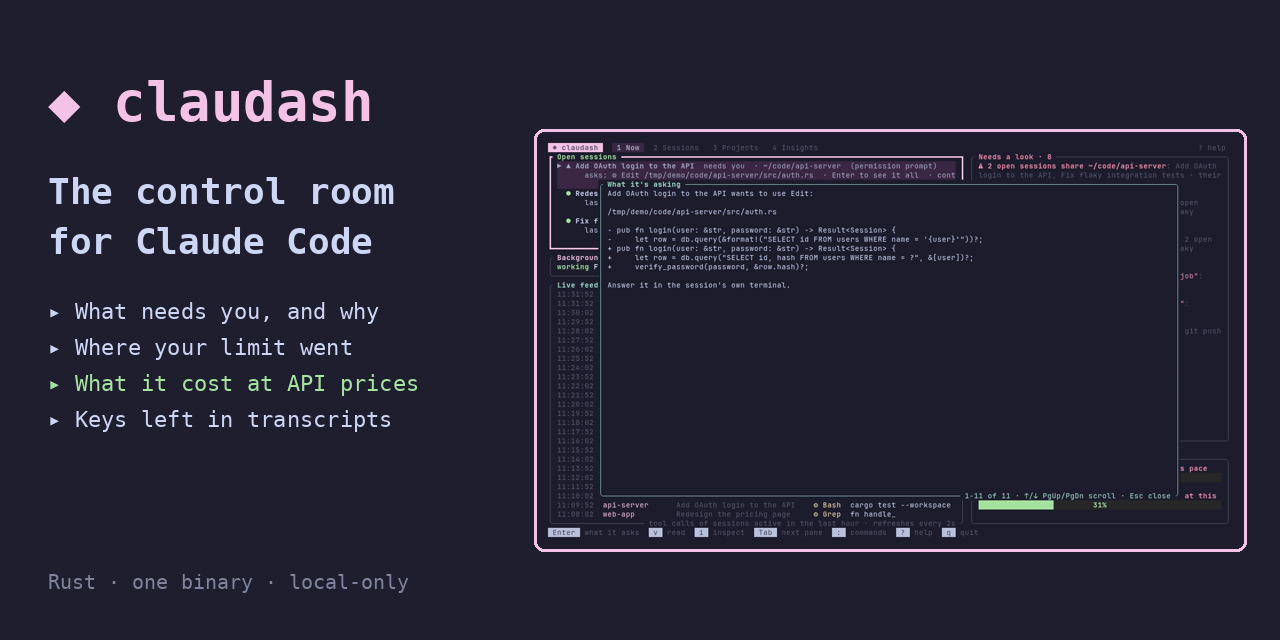
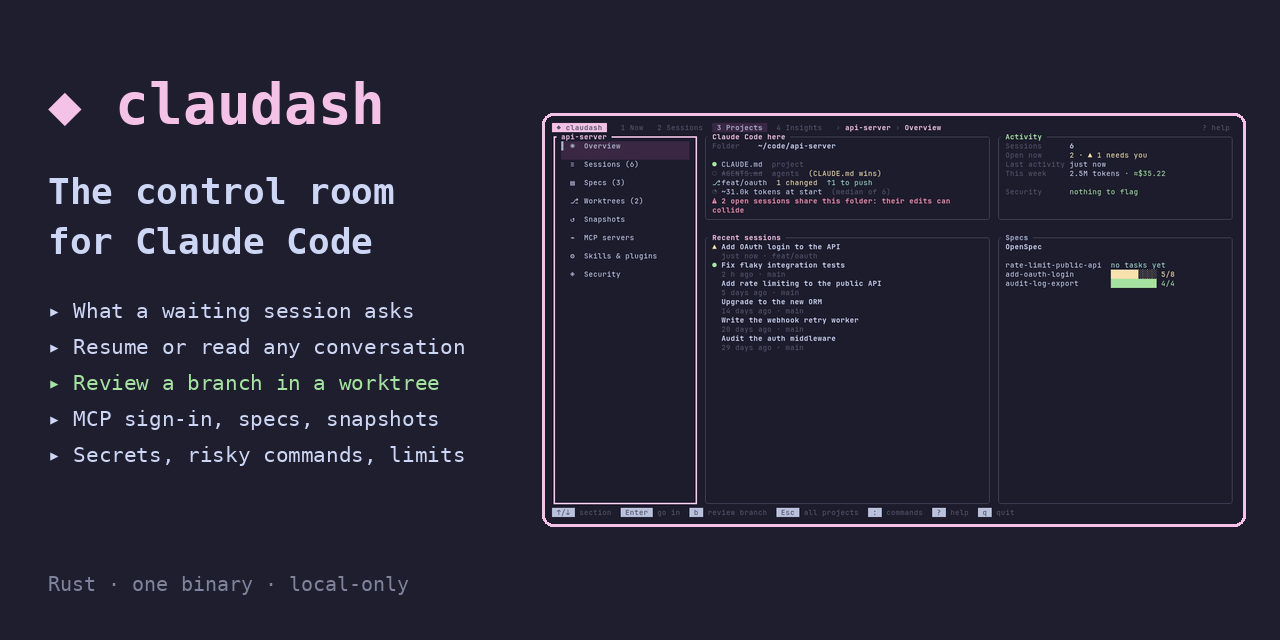
README: lead with sessions and projects, compare by area
claudash is the control room for sessions and projects; usage is one of its
areas. The first sentence, the reasons, the recordings and the crate
description now say so, and the comparison covers the tools that run agents
as well as the ones that count usage, from their own documentation.

diff --git a/README.md b/README.md
@@ -1,6 +1,6 @@
 # claudash
 
-**The control room for Claude Code.** One terminal screen: which sessions need you and what they're asking, where your 5-hour and weekly limits went, what your usage costs at API prices, and the API keys and risky commands Claude left behind on disk.
+**The control room for Claude Code.** Every session and every project on one terminal screen: see what a waiting session is asking, resume or read any conversation, sign in to MCP servers, review a branch in its own worktree, run the next spec step, undo what `/rewind` can't, and see where your limits went.
 
 A single Rust binary that reads Claude Code's local files and runs the `claude` CLI. No server, no account, no network requests of its own.
 
@@ -9,7 +9,7 @@ A single Rust binary that reads Claude Code's local files and runs the `claude` 
 [![License](https://img.shields.io/badge/license-MIT%20OR%20Apache--2.0-blue.svg)](#license)
 [![Built With Ratatui](https://img.shields.io/badge/Built_With_Ratatui-000?logo=ratatui&logoColor=fff)](https://ratatui.rs/)
 
-![claudash: sessions that need you and what they ask, alerts, plan usage, project pages, where the limit went, and a wrapped card](https://raw.githubusercontent.com/jguajardo/claudash/main/demo/claudash.gif)
+![claudash: a waiting session and what it asks to run, then a project's page with its spec-driven changes, worktrees and MCP servers](https://raw.githubusercontent.com/jguajardo/claudash/main/demo/claudash.gif)
 
 <sub>Recorded from made-up data with [VHS](https://github.com/charmbracelet/vhs); see [demo/](demo/). Unofficial project: not affiliated with, endorsed by or supported by Anthropic. "Claude" and "Claude Code" are trademarks of Anthropic.</sub>
 
@@ -32,58 +32,98 @@ claudash                 # 1 Now · 2 Sessions · 3 Projects · 4 Insights · : 
 
 ## Why
 
-You run Claude Code in three terminals and a background session. One has been waiting on a permission prompt for twenty minutes. You hit your 5-hour limit and don't know which session ate it. Last week you pasted an API key into a prompt, and it's still sitting in a plain-text transcript. claudash puts all of that on one screen:
+You run Claude Code in three terminals and a background session, across four repositories. One session has been waiting on a permission prompt for twenty minutes. A branch is waiting for a review. An MCP server needs you to sign in again, so the session that uses it is working without it. A change is five tasks into eight and you don't remember the command for the next one. claudash shows all of that on one screen, and acts on it from there.
 
-- **What needs you, and what it wants.** Every open session, interactive or background, the ones waiting on you first, with the exact command or edit each one is asking to run. Desktop notification when one starts waiting.
-- **Where the limit went.** Each session's, project's and model's part of the current 5-hour and 7-day windows, and what all of it would cost at API prices, by day, project, model and session. Sessions the limit stopped continue on their own when it resets, and you see whether Pro, Max 5x, Max 20x or the API fits your use.
-- **What Claude left on disk.** API keys and tokens in your transcripts and prompt history (shown masked), force pushes, `curl | sh`, `sudo` and other risky commands, and permission rules broader than you think.
-- **Each project on one page.** Its sessions, MCP servers (with their logs and sign-in), spec-driven changes (OpenSpec, spec-kit, Kiro, Task Master) and their next step, worktrees, snapshots that undo what `/rewind` can't (Bash commands, subagents), an AI review of any branch, skills and plugins with what they cost you per session.
+**Sessions**
 
-It never drives Claude Code: Claude Code does the work, claudash keeps track of it. Everything it changes, it asks first.
+- **What needs you, and what it wants.** Every open session, interactive or background, the waiting ones first, with the exact command or edit each one is asking to run. A desktop notification when one starts waiting; attach to, stop or respawn the background ones.
+- **Any conversation, a few keys away.** Every session you've run, filterable, with full-text search across all of them. Resume one in Claude Code, read it with its tool output and subagents, send it a prompt, inspect what filled its context, tag, note, star or trash it.
+- **Stopped at a limit, continued at the reset.** Sessions a plan limit stopped are listed, and continue in the background once the window resets.
 
-| Where the limit went, and what it cost | Is your plan worth it |
+**Projects**
+
+- **Each project on one page.** What Claude Code loads there (instruction files, skills, agents, commands, hooks, permission rules, plugins and what each adds to every session), its git state, sessions and worktrees, and a warning when two open sessions edit the same file.
+- **MCP servers you can fix.** Which are online, which failed and why (the server's log), which need you to sign in; `a` signs in without leaving the dashboard.
+- **A review of any branch.** claudash fetches, checks the branch out in a worktree of its own and has Claude Code review it there: findings by file, line and severity, each with the code around it and a suggested change. Your working tree isn't touched.
+- **Specs and their next step.** OpenSpec, spec-kit, Kiro, Task Master and GSD changes with their progress; `Enter` runs the next step in Claude Code.
+- **Undo what `/rewind` can't.** Opt-in snapshots of a project's files before each prompt and after each reply, so changes made by Bash commands and subagents can be seen and put back.
+
+**Security.** API keys and tokens left in your transcripts and prompt history (shown masked), force pushes, `curl | sh`, `sudo` and other risky commands, and permission rules broader than you think.
+
+**Usage.** Each session's, project's and model's part of the current 5-hour and 7-day windows, what your use would cost at API prices, and whether Pro, Max 5x, Max 20x or the API fits it.
+
+claudash doesn't replace Claude Code or sit between you and it: Claude Code does the work in its own terminal, claudash keeps track of it and runs the `claude` CLI for you. Everything it changes, it asks first.
+
+| A project's page, and an MCP sign-in | A review of a branch |
 | --- | --- |
+| ![A project's page: its spec-driven changes with the next step, MCP servers, signing in to one that needs it, and what each plugin adds to a session](https://raw.githubusercontent.com/jguajardo/claudash/main/demo/project.gif) | ![Reviewing a branch: the remote's branches, a static review in a worktree of its own, findings by file, line and severity, and one finding with its code and suggested change](https://raw.githubusercontent.com/jguajardo/claudash/main/demo/review.gif) |
+| **Any conversation, searchable** | **What Claude left on disk** |
+| ![Searching every conversation, opening the one that matches and reading it with its tool output](https://raw.githubusercontent.com/jguajardo/claudash/main/demo/conversation.gif) | ![Insights › Security: masked API keys found in transcripts and a force push](https://raw.githubusercontent.com/jguajardo/claudash/main/demo/secrets.gif) |
+| **Where the limit went, and what it cost** | **Is your plan worth it** |
 | ![Insights: each session's part of the 5-hour and 7-day windows, and dollars per day](https://raw.githubusercontent.com/jguajardo/claudash/main/demo/limits.gif) | ![claudash plan --share: a month of use at API prices against the plan's price, and how often Pro, Max 5x and Max 20x would have stopped you](https://raw.githubusercontent.com/jguajardo/claudash/main/demo/plan.gif) |
-| **What Claude left on disk** | **Your week on one card** |
-| ![Insights › Security: masked API keys found in transcripts and a force push](https://raw.githubusercontent.com/jguajardo/claudash/main/demo/secrets.gif) | ![The wrapped card: prompts, cost, streak, projects, models, tools, hours](https://raw.githubusercontent.com/jguajardo/claudash/main/demo/wrapped.gif) |
 
 ## Tour
 
 | View | What's there |
 | --- | --- |
 | **1 · Now** | Open sessions (what a waiting one asks, last tool call, context use, subagents), background sessions you can attach to, stop or respawn, alerts that take you where to act, plan usage with a forecast and today's cost, a live feed of every tool call |
-| **2 · Sessions** | Every session, searchable and filterable, with its state, cost, project instructions and token use. Resume, read, inspect (context per request, tool failures, audit, costliest prompts), send a prompt, tag, note, star, trash |
-| **3 · Projects** | A card per project, then a page with Overview, Sessions, Specs, Worktrees, MCP servers, Skills & plugins (with a permission-rule linter) and Security |
+| **2 · Sessions** | Every session, searchable and filterable, with its state, cost, project instructions and token use. Resume, read (search, tool output, subagents, export), inspect (context per request, tool failures, audit, costliest prompts), send a prompt, tag, note, star, trash |
+| **3 · Projects** | A card per project (`b` reviews one of its branches), then a page with Overview, Sessions, Specs, Worktrees, Snapshots, MCP servers, Skills & plugins (with a permission-rule linter) and Security |
 | **4 · Insights** | Plan & usage in tokens or dollars, where the limit went, where tokens go (tool output by Bash command, costliest prompts, whether caveman or rtk changed anything), security across every session |
 
-Anywhere: `f` searches every conversation, `h` searches every prompt you've typed, `s` summarizes today, `w` shows your **wrapped** week or month on one card made to be shared (`x` hides project names). The [guide](docs/guide.md) covers every view, key and setting.
+Anywhere: `f` searches every conversation, `h` searches every prompt you've typed, `s` summarizes today, `:` runs any action by name, `w` shows your [wrapped](https://raw.githubusercontent.com/jguajardo/claudash/main/demo/wrapped.gif) week or month on one card made to be shared (`x` hides project names). The [guide](docs/guide.md) covers every view, key and setting, and the [full tour](https://raw.githubusercontent.com/jguajardo/claudash/main/demo/tour.gif) shows them in a minute.
 
 From the command line, for scripts and status bars:
 
 ```sh
 claudash status            # ▲ 1 needs you · 2 working · 5h 64% → limit 13:10 · 7d 31%   (tmux, Waybar…; --json)
+claudash continue --wait   # continue the sessions a plan limit stopped when it resets
+claudash export <ID>       # a conversation as Markdown, credentials masked
+claudash summary           # today as Markdown
 claudash usage             # tokens and API-equivalent dollars by day; monthly, projects, models, sessions; --json
 claudash quota             # where the current 5-hour and 7-day windows went; --json
-claudash wrapped --redact  # your week on a card; month; --plain
 claudash plan --share      # is your plan worth it, as a card to post: API-equivalent use vs. price
-claudash continue --wait   # continue the sessions a plan limit stopped when it resets
-claudash summary           # today as Markdown
-claudash export <ID>       # a conversation as Markdown, credentials masked
+claudash wrapped --redact  # your week on a card; month; --plain
 ```
 
 ## How it compares
 
-| | claudash | [ccusage](https://github.com/ryoppippi/ccusage) | [Claude Code Usage Monitor](https://github.com/Maciek-roboblog/Claude-Code-Usage-Monitor) | `claude agents` (built in) |
-| --- | --- | --- | --- | --- |
-| Which session needs you, and what it's asking | ✓ every session | | | background sessions |
-| Cost at API prices by day, project, model, session | ✓ | ✓ | ✓ | |
-| Each session's part of the 5-hour and 7-day windows | ✓ | 5-hour blocks | forecasts | |
-| Credentials in transcripts, risky-command audit, permission linter | ✓ | | | |
-| MCP health, logs and sign-in; specs; worktrees; branch review | ✓ | | | |
-| Other coding agents (Codex, Gemini…) | | ✓ | | |
-| Form | TUI + CLI, one binary | CLI | TUI | Claude Code |
+Other tools cover parts of this, from two sides: the ones that run agents for you, and the ones that count what you used. claudash's job is a third one: the screen for the sessions you start yourself, and for the projects around them.
 
-They're complementary: ccusage covers more agents and reports, the Usage Monitor focuses on forecasting. claudash is the one screen for running Claude Code day to day.
+**Sessions and projects**
+
+| | claudash | [`claude agents`](https://code.claude.com/docs/en/agent-view) (built in) | [claude-squad](https://github.com/smtg-ai/claude-squad) | [ccmanager](https://github.com/kbwo/ccmanager) | [Agent of Empires](https://github.com/agent-of-empires/agent-of-empires) | [opcode](https://github.com/winfunc/opcode) |
+| --- | --- | --- | --- | --- | --- | --- |
+| Starts and runs agents for you | no, you start them | ✓ background sessions | ✓ | ✓ | ✓ | ✓ |
+| Sessions you opened yourself, in any terminal | ✓ open and past | once you background them | | | imports past ones | past ones |
+| Which session is waiting on you | ✓ | ✓ | | ✓ | ✓ | |
+| What it's asking to run | ✓ | ✓ and you reply there | | | ✓ structured sessions | |
+| Resume a past conversation | ✓ | ✓ as a background session | sessions it paused | as an argument | ✓ | ✓ |
+| Read and search the text of every conversation | ✓ | | | | | read |
+| Continue sessions when a plan limit resets | ✓ | | | | ✓ opt-in | |
+| What Claude Code loads in a project: instructions, skills, hooks, plugins | ✓ | | | | skills | CLAUDE.md, agents |
+| MCP servers: health, logs, sign-in | ✓ | | | | list | registry, connection test |
+| Spec-driven changes and their next step | ✓ | | | | | |
+| Worktrees | list, clean up | one per session | one per session | create, merge, delete | create, clean up | |
+| AI review of a branch in a worktree of its own | ✓ | | | | | |
+| Undo file changes `/rewind` can't | ✓ opt-in snapshots | | | | | checkpoints |
+| Other coding agents (Codex, Gemini…) | | | ✓ | ✓ | ✓ | |
+| Form | TUI + CLI | Claude Code | TUI on tmux | TUI | TUI and web on tmux | desktop app |
+
+**Security and usage**
+
+| | claudash | [ccusage](https://github.com/ccusage/ccusage) | [Claude Code Usage Monitor](https://github.com/Maciek-roboblog/Claude-Code-Usage-Monitor) | [opcode](https://github.com/winfunc/opcode) |
+| --- | --- | --- | --- | --- |
+| Credentials left in transcripts, risky commands, a permission-rule linter | ✓ | | | |
+| Cost at API prices by day, project, model and session | ✓ | ✓ | by day; project and model in an opt-in history | by model, project and date |
+| Each session's part of the 5-hour and 7-day windows | ✓ | 5-hour blocks | forecasts for the account | |
+| Pro, Max 5x, Max 20x or the API for your use | ✓ | API-equivalent value | plan suggestions | |
+| Other coding agents | | ✓ | | |
+| Form | TUI + CLI | CLI | terminal monitor | desktop app |
+
+<sub>From each project's README and documentation on 2026-10-04. A blank cell means they don't mention it, not that the tool can't do it; corrections are welcome in an issue.</sub>
+
+They're complementary. claude-squad, ccmanager, Agent of Empires and Claude Code's own agent view start agents for you and keep them in panes or background sessions of their own, and several of them drive other agents too. claudash doesn't run your agents: it watches the sessions you start yourself, in any terminal, and adds the project around them (MCP servers, specs, worktrees, branch reviews, what Claude Code loads). ccusage covers many more agents and reports, and the Usage Monitor focuses on forecasting.
 
 ## Claude Code plugin
 

diff --git a/CHANGELOG.md b/CHANGELOG.md
@@ -2,6 +2,11 @@
 
 What changed in each release of claudash. Install or update with `brew upgrade claudash`, `cargo binstall claudash` or the installers on the [releases page](https://github.com/jguajardo/claudash/releases).
 
+## Unreleased
+
+- The README and the recordings lead with sessions and projects: new recordings of a project's page with an MCP sign-in, a branch review and a conversation, and a comparison by area.
+- Interface: in a conversation, a reply that starts with a tool call gets its "Claude" header and MCP tools read `server › tool`; ages of two days or more are shown in days; counts are spelled out ("1 session", "2 sessions"); a project's overview no longer cuts a line that wraps; after `claude mcp login` the servers are checked again.
+
 ## 1.1.1 — 2026-10-04
 
 - `claudash plan --share` prints whether your plan is worth it as a card to post, signed "made with claudash".
